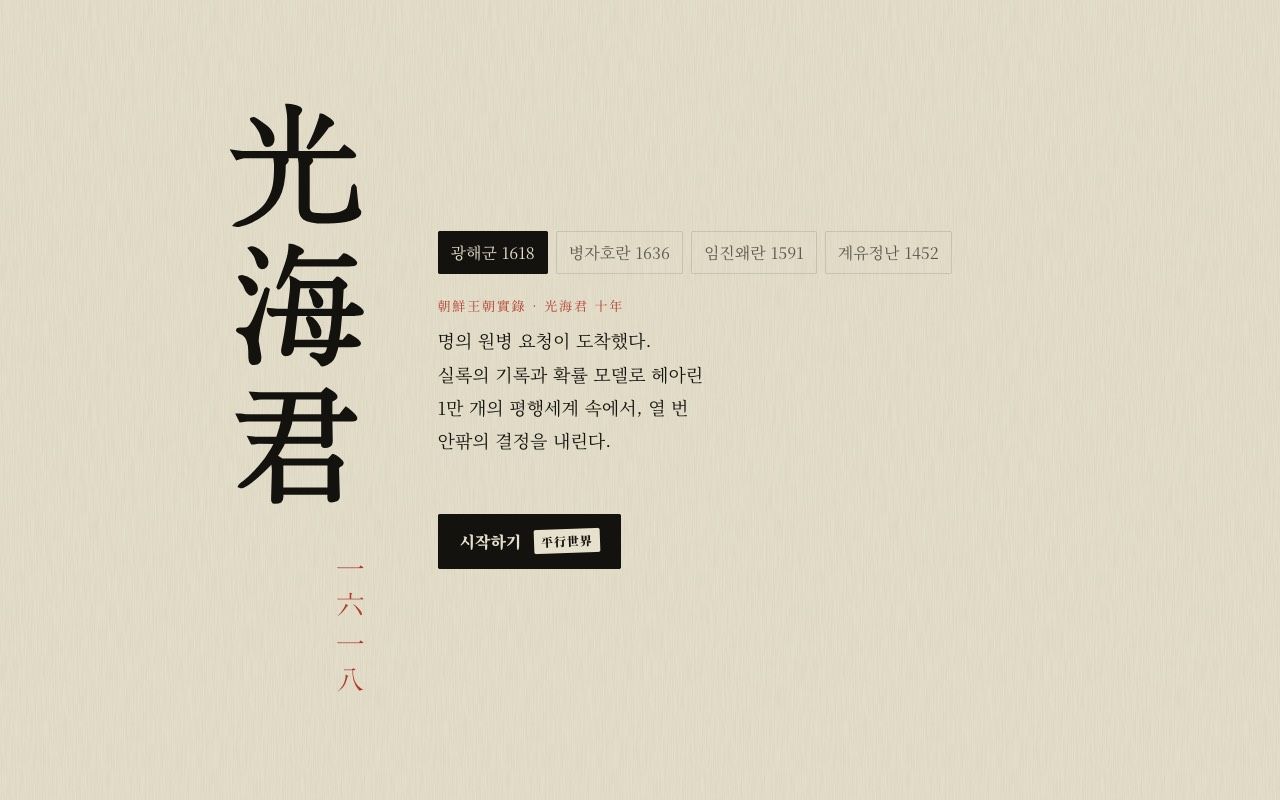
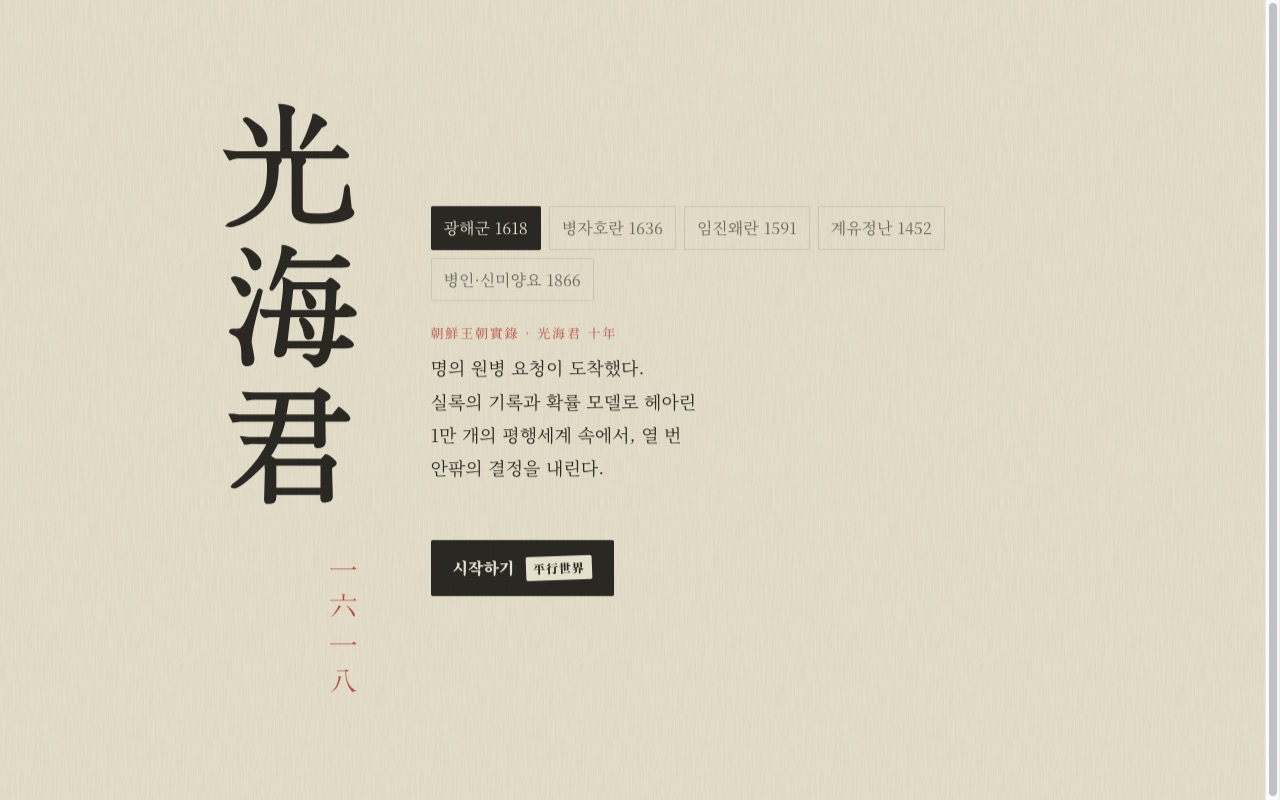
couplegame: add live link; historical-if: recapture cover with 5 episodes

diff --git a/work/index.html b/work/index.html
@@ -1,1 +1,1 @@
-<!doctype html><html lang="ko"><head><meta charset="utf-8"><meta name="viewport" content="width=device-width,initial-scale=1"><title>자세히 보는 포트폴리오 | 문대한 · 서비스 기획 PM</title><meta name="description" content="문대한의 대표 사례와 추가 경험을 프로젝트마다 한 페이지씩 정리한 상세 포트폴리오."><meta name="robots" content="index,follow"><meta name="theme-color" content="#ffffff"><link rel="canonical" href="https://moondh99.github.io/work/"><meta property="og:type" content="website"><meta property="og:locale" content="ko_KR"><meta property="og:title" content="자세히 보는 포트폴리오 | 문대한"><meta property="og:description" content="문대한의 대표 사례와 추가 경험을 프로젝트마다 한 페이지씩 정리한 상세 포트폴리오."><meta property="og:url" content="https://moondh99.github.io/work/"><meta property="og:image" content="https://moondh99.github.io/assets/og-pm.png"><link rel="stylesheet" href="/style.css"><link rel="stylesheet" href="/views.css"><link rel="preload" href="/assets/PretendardVariable.woff2" as="font" type="font/woff2" crossorigin><link rel="icon" href="/assets/favicon.svg"><link rel="stylesheet" href="/storytelling.css"></head><body class="detail-view"><a class="skip" href="#main">본문으로 건너뛰기</a><header class="bar"><div class="wrap nav"><a href="/" class="brand">문대한</a><nav aria-label="포트폴리오 보기" class="navlinks"><a href="/">한눈에 보기</a><a href="/work/" aria-current="page">자세히 보기</a><a href="/resume/" class="resume-nav">이력서</a></nav></div></header><main id="main" tabindex="-1" class="wrap detail-index"><div class="page-heading"><p class="eyebrow">DETAILED PORTFOLIO</p><h1>프로젝트를 자세히 읽기</h1><p class="lede">프로젝트마다 무엇을 만들고 어떤 선택을 했는지, 결과는 어땠는지 정리.</p><div class="page-actions"><a href="/">← 한눈에 보기</a><a href="/portfolio.pdf">포트폴리오 PDF ↗</a></div></div><section class="index-group" id="featured" aria-labelledby="featured-title"><h2 id="featured-title">대표 사례</h2><p class="group-description">데이터와 화면 사이에서 무엇을 보여 줄지 결정한 세 가지 사례.</p><ul class="detail-list"><li class="detail-row"><span class="small project-year">2025</span><div><h3><a href="/projects/ontong/">온통청년 문화·여가 접근성</a></h3><p>3인 팀장. 시설 범위와 우선 검토 지역 조정, 공동 분석 보고서·제언 초안. 2025 연구 랩업 대상</p></div><div class="row-action"><span class="status">팀 분석</span><a href="/projects/ontong/">자세히 보기 →</a></div></li><li class="detail-row"><span class="small project-year">2025–2026</span><div><h3><a href="/projects/nca/">NCA 공약·공식자료 대조</a></h3><p>2025 데이터 엔지니어. 2026 AI 변경 지시, 공개 범위 조정, 공약·기사 원문 표본 검토</p></div><div class="row-action"><span class="status">후속 진행</span><a href="/projects/nca/">자세히 보기 →</a></div></li><li class="detail-row"><span class="small project-year">2026</span><div><h3><a href="/projects/dearlog/">Dear Log</a></h3><p>학기 백엔드·AI 담당. 데모 화면 문제를 위치와 수정 방향이 담긴 요청 10건으로 정리해 팀에 전달</p></div><div class="row-action"><span class="status">화면 검토·이슈 정의</span><a href="/projects/dearlog/">자세히 보기 →</a></div></li></ul></section><section class="index-group" id="personal" aria-labelledby="personal-title"><h2 id="personal-title">개인 프로젝트</h2><p class="group-description">기획과 범위 판단은 본인, 구현은 AI 협업으로 만든 개인 프로젝트.</p><ul class="detail-list"><li class="detail-row"><span class="small project-year">2026</span><div><h3><a href="/projects/navernews/">약속레이더 공약 보도 추적</a></h3><p>공약 1,200개의 보도 추적. AI 라벨 출처와 오차범위를 화면에 공개</p></div><div class="row-action"><span class="status">배포 예정</span><a href="/projects/navernews/">자세히 보기 →</a></div></li><li class="detail-row"><span class="small project-year">2026</span><div><h3><a href="/projects/couplegame/">둘이잠깐 커플 게임 웹앱</a></h3><p>휴대폰 한 대로 하는 커플 게임 43종. 공통 예외 정책 설계와 적용</p></div><div class="row-action"><span class="status">배포 예정</span><a href="/projects/couplegame/">자세히 보기 →</a></div></li><li class="detail-row"><span class="small project-year">2026</span><div><h3><a href="/projects/historical-if/">실록 평행세계 Historical IF</a></h3><p>실록과 승정원일기 근거를 가정마다 연결한 역사 IF 게임</p></div><div class="row-action"><span class="status">진행 중</span><a href="/projects/historical-if/">자세히 보기 →</a></div></li><li class="detail-row"><span class="small project-year">2026</span><div><h3><a href="/projects/tossfinance/">보유 미국 주식 리서치 메일</a></h3><p>계산은 코드로, AI 해석은 우선순위 상위 3종목에만 쓰는 매일 메일 리포트</p></div><div class="row-action"><span class="status">개인 운영</span><a href="/projects/tossfinance/">자세히 보기 →</a></div></li></ul></section><section class="index-group" id="experience" aria-labelledby="experience-title"><h2 id="experience-title">추가 경험</h2><p class="group-description">서비스 기획·설계 중심의 경험.</p><ul class="detail-list"><li class="detail-row"><span class="small project-year">2026</span><div><h3><a href="/projects/yangju/">양주 광역버스 좌석 정보</a></h3><p>좌석·결측·시각 응답 기준 작성. 정류장 4곳의 노선·방향 매핑 6건을 대조한 로컬 구현</p></div><div class="row-action"><span class="status">로컬 구현</span><a href="/projects/yangju/">자세히 보기 →</a></div></li><li class="detail-row"><span class="small project-year">2025</span><div><h3><a href="/projects/finsight/">Finsight</a></h3><p>5인 PM·팀장. 수집·파싱 역할 조정, AI 요구사항 지시·실행 검토, 저장 파일 표본 대조</p></div><div class="row-action"><span class="status">팀 프로젝트</span><a href="/projects/finsight/">자세히 보기 →</a></div></li><li class="detail-row"><span class="small project-year">2025</span><div><h3><a href="/projects/registration/">수강신청 시스템 개편</a></h3><p>수강 계획과 마일리지 우선권을 요구사항·DFD·ERD·HTML 프로토타입으로 정리</p></div><div class="row-action"><span class="status">설계 프로젝트</span><a href="/projects/registration/">자세히 보기 →</a></div></li><li class="detail-row"><span class="small project-year">2026</span><div><h3><a href="/projects/bmw/">운전 졸업식 BMW YIDP</a></h3><p>2인 팀 팀장. 면허 반납 뒤의 이동계획표와 졸업식, 예약·동행 절차 설계</p></div><div class="row-action"><span class="status">기획안</span><a href="/projects/bmw/">자세히 보기 →</a></div></li><li class="detail-row"><span class="small project-year">2026</span><div><h3><a href="/projects/walk/">첫걸음 동네산책</a></h3><p>3인 팀 대표. 이주민이 동네 정보를 나누는 핵심 화면 4개와 예시 데이터 MVP</p></div><div class="row-action"><span class="status">신청·MVP</span><a href="/projects/walk/">자세히 보기 →</a></div></li><li class="detail-row"><span class="small project-year">2026.04</span><div><h3><a href="/projects/campusguard/">CampusGuard KIT 바이브코딩</a></h3><p>부트캠프 출결과 상담·행정 문서를 함께 다루는 프로토타입. Kiro 코드 생성 활용</p></div><div class="row-action"><span class="status">프로토타입</span><a href="/projects/campusguard/">자세히 보기 →</a></div></li><li class="detail-row"><span class="small project-year">2026.05</span><div><h3><a href="/projects/kmu/">국민대 특화 행정 서비스 AI</a></h3><p>공식 학사 자료 확인 후 문의문과 체크리스트를 작성하는 React·FastAPI 프로토타입</p></div><div class="row-action"><span class="status">구현·설계</span><a href="/projects/kmu/">자세히 보기 →</a></div></li><li class="detail-row"><span class="small project-year">2026</span><div><h3><a href="/projects/kbi/">금융문맹 탈출기 RPG</a></h3><p>개인 5장 기획·편집·AI 제작. 카드 순서·이야기 흐름과 디자인 수정, 공식 표지·카드뉴스 인기상</p></div><div class="row-action"><span class="status">콘텐츠 제작</span><a href="/projects/kbi/">자세히 보기 →</a></div></li></ul></section></main><footer class="wrap view-footer"><p>문대한 · 서비스 기획 / PM</p><p><a href="mailto:mdh0204@naver.com">mdh0204@naver.com</a> · <a href="/resume.pdf">이력서 PDF (2쪽)</a> · <a href="/resume.docx">편집용 DOCX (2쪽)</a></p><p class="small">최종 수정 2026.10.15</p></footer></body></html>
+<!doctype html><html lang="ko"><head><meta charset="utf-8"><meta name="viewport" content="width=device-width,initial-scale=1"><title>자세히 보는 포트폴리오 | 문대한 · 서비스 기획 PM</title><meta name="description" content="문대한의 대표 사례와 추가 경험을 프로젝트마다 한 페이지씩 정리한 상세 포트폴리오."><meta name="robots" content="index,follow"><meta name="theme-color" content="#ffffff"><link rel="canonical" href="https://moondh99.github.io/work/"><meta property="og:type" content="website"><meta property="og:locale" content="ko_KR"><meta property="og:title" content="자세히 보는 포트폴리오 | 문대한"><meta property="og:description" content="문대한의 대표 사례와 추가 경험을 프로젝트마다 한 페이지씩 정리한 상세 포트폴리오."><meta property="og:url" content="https://moondh99.github.io/work/"><meta property="og:image" content="https://moondh99.github.io/assets/og-pm.png"><link rel="stylesheet" href="/style.css"><link rel="stylesheet" href="/views.css"><link rel="preload" href="/assets/PretendardVariable.woff2" as="font" type="font/woff2" crossorigin><link rel="icon" href="/assets/favicon.svg"><link rel="stylesheet" href="/storytelling.css"></head><body class="detail-view"><a class="skip" href="#main">본문으로 건너뛰기</a><header class="bar"><div class="wrap nav"><a href="/" class="brand">문대한</a><nav aria-label="포트폴리오 보기" class="navlinks"><a href="/">한눈에 보기</a><a href="/work/" aria-current="page">자세히 보기</a><a href="/resume/" class="resume-nav">이력서</a></nav></div></header><main id="main" tabindex="-1" class="wrap detail-index"><div class="page-heading"><p class="eyebrow">DETAILED PORTFOLIO</p><h1>프로젝트를 자세히 읽기</h1><p class="lede">프로젝트마다 무엇을 만들고 어떤 선택을 했는지, 결과는 어땠는지 정리.</p><div class="page-actions"><a href="/">← 한눈에 보기</a><a href="/portfolio.pdf">포트폴리오 PDF ↗</a></div></div><section class="index-group" id="featured" aria-labelledby="featured-title"><h2 id="featured-title">대표 사례</h2><p class="group-description">데이터와 화면 사이에서 무엇을 보여 줄지 결정한 세 가지 사례.</p><ul class="detail-list"><li class="detail-row"><span class="small project-year">2025</span><div><h3><a href="/projects/ontong/">온통청년 문화·여가 접근성</a></h3><p>3인 팀장. 시설 범위와 우선 검토 지역 조정, 공동 분석 보고서·제언 초안. 2025 연구 랩업 대상</p></div><div class="row-action"><span class="status">팀 분석</span><a href="/projects/ontong/">자세히 보기 →</a></div></li><li class="detail-row"><span class="small project-year">2025–2026</span><div><h3><a href="/projects/nca/">NCA 공약·공식자료 대조</a></h3><p>2025 데이터 엔지니어. 2026 AI 변경 지시, 공개 범위 조정, 공약·기사 원문 표본 검토</p></div><div class="row-action"><span class="status">후속 진행</span><a href="/projects/nca/">자세히 보기 →</a></div></li><li class="detail-row"><span class="small project-year">2026</span><div><h3><a href="/projects/dearlog/">Dear Log</a></h3><p>학기 백엔드·AI 담당. 데모 화면 문제를 위치와 수정 방향이 담긴 요청 10건으로 정리해 팀에 전달</p></div><div class="row-action"><span class="status">화면 검토·이슈 정의</span><a href="/projects/dearlog/">자세히 보기 →</a></div></li></ul></section><section class="index-group" id="personal" aria-labelledby="personal-title"><h2 id="personal-title">개인 프로젝트</h2><p class="group-description">기획과 범위 판단은 본인, 구현은 AI 협업으로 만든 개인 프로젝트.</p><ul class="detail-list"><li class="detail-row"><span class="small project-year">2026</span><div><h3><a href="/projects/navernews/">약속레이더 공약 보도 추적</a></h3><p>공약 1,200개의 보도 추적. AI 라벨 출처와 오차범위를 화면에 공개</p></div><div class="row-action"><span class="status">배포 예정</span><a href="/projects/navernews/">자세히 보기 →</a></div></li><li class="detail-row"><span class="small project-year">2026</span><div><h3><a href="/projects/couplegame/">둘이잠깐 커플 게임 웹앱</a></h3><p>휴대폰 한 대로 하는 커플 게임 43종. 공통 예외 정책 설계와 적용</p></div><div class="row-action"><span class="status">공개 운영</span><a href="/projects/couplegame/">자세히 보기 →</a></div></li><li class="detail-row"><span class="small project-year">2026</span><div><h3><a href="/projects/historical-if/">실록 평행세계 Historical IF</a></h3><p>실록과 승정원일기 근거를 가정마다 연결한 역사 IF 게임</p></div><div class="row-action"><span class="status">진행 중</span><a href="/projects/historical-if/">자세히 보기 →</a></div></li><li class="detail-row"><span class="small project-year">2026</span><div><h3><a href="/projects/tossfinance/">보유 미국 주식 리서치 메일</a></h3><p>계산은 코드로, AI 해석은 우선순위 상위 3종목에만 쓰는 매일 메일 리포트</p></div><div class="row-action"><span class="status">개인 운영</span><a href="/projects/tossfinance/">자세히 보기 →</a></div></li></ul></section><section class="index-group" id="experience" aria-labelledby="experience-title"><h2 id="experience-title">추가 경험</h2><p class="group-description">서비스 기획·설계 중심의 경험.</p><ul class="detail-list"><li class="detail-row"><span class="small project-year">2026</span><div><h3><a href="/projects/yangju/">양주 광역버스 좌석 정보</a></h3><p>좌석·결측·시각 응답 기준 작성. 정류장 4곳의 노선·방향 매핑 6건을 대조한 로컬 구현</p></div><div class="row-action"><span class="status">로컬 구현</span><a href="/projects/yangju/">자세히 보기 →</a></div></li><li class="detail-row"><span class="small project-year">2025</span><div><h3><a href="/projects/finsight/">Finsight</a></h3><p>5인 PM·팀장. 수집·파싱 역할 조정, AI 요구사항 지시·실행 검토, 저장 파일 표본 대조</p></div><div class="row-action"><span class="status">팀 프로젝트</span><a href="/projects/finsight/">자세히 보기 →</a></div></li><li class="detail-row"><span class="small project-year">2025</span><div><h3><a href="/projects/registration/">수강신청 시스템 개편</a></h3><p>수강 계획과 마일리지 우선권을 요구사항·DFD·ERD·HTML 프로토타입으로 정리</p></div><div class="row-action"><span class="status">설계 프로젝트</span><a href="/projects/registration/">자세히 보기 →</a></div></li><li class="detail-row"><span class="small project-year">2026</span><div><h3><a href="/projects/bmw/">운전 졸업식 BMW YIDP</a></h3><p>2인 팀 팀장. 면허 반납 뒤의 이동계획표와 졸업식, 예약·동행 절차 설계</p></div><div class="row-action"><span class="status">기획안</span><a href="/projects/bmw/">자세히 보기 →</a></div></li><li class="detail-row"><span class="small project-year">2026</span><div><h3><a href="/projects/walk/">첫걸음 동네산책</a></h3><p>3인 팀 대표. 이주민이 동네 정보를 나누는 핵심 화면 4개와 예시 데이터 MVP</p></div><div class="row-action"><span class="status">신청·MVP</span><a href="/projects/walk/">자세히 보기 →</a></div></li><li class="detail-row"><span class="small project-year">2026.04</span><div><h3><a href="/projects/campusguard/">CampusGuard KIT 바이브코딩</a></h3><p>부트캠프 출결과 상담·행정 문서를 함께 다루는 프로토타입. Kiro 코드 생성 활용</p></div><div class="row-action"><span class="status">프로토타입</span><a href="/projects/campusguard/">자세히 보기 →</a></div></li><li class="detail-row"><span class="small project-year">2026.05</span><div><h3><a href="/projects/kmu/">국민대 특화 행정 서비스 AI</a></h3><p>공식 학사 자료 확인 후 문의문과 체크리스트를 작성하는 React·FastAPI 프로토타입</p></div><div class="row-action"><span class="status">구현·설계</span><a href="/projects/kmu/">자세히 보기 →</a></div></li><li class="detail-row"><span class="small project-year">2026</span><div><h3><a href="/projects/kbi/">금융문맹 탈출기 RPG</a></h3><p>개인 5장 기획·편집·AI 제작. 카드 순서·이야기 흐름과 디자인 수정, 공식 표지·카드뉴스 인기상</p></div><div class="row-action"><span class="status">콘텐츠 제작</span><a href="/projects/kbi/">자세히 보기 →</a></div></li></ul></section></main><footer class="wrap view-footer"><p>문대한 · 서비스 기획 / PM</p><p><a href="mailto:mdh0204@naver.com">mdh0204@naver.com</a> · <a href="/resume.pdf">이력서 PDF (2쪽)</a> · <a href="/resume.docx">편집용 DOCX (2쪽)</a></p><p class="small">최종 수정 2026.10.15</p></footer></body></html>

diff --git a/projects/couplegame/index.html b/projects/couplegame/index.html
@@ -5,5 +5,5 @@
 <blockquote class="story-quote"><p>“게임마다 따로 고치면,<br>게임 수만큼 예외가 생긴다.”</p><footer>공통 정책을 먼저 정한 이유</footer></blockquote>
 <section class="story-sec" aria-labelledby="decision"><div class="story-col story-sec" style="padding-top:0"><span class="kicker">02 — 무엇을 결정했나</span><h2 id="decision" class="serif">공통 정책 먼저, 게임은 그다음</h2></div><div class="story-wide"><ul class="options"><li class="rejected"><span class="tag">A · 기각</span><b>게임마다 예외를 따로 처리</b><span>게임이 늘 때마다 중단, 재개, 기록 오류가 같이 늘어남.</span></li><li class="chosen"><span class="tag">B · 채택</span><b>공통 정책을 정한 뒤 게임별 차이만 정의</b><span>일시정지, 비밀 가림, 입력 순간 판정, 기록 1회 저장, 권한 거절 시 대체 입력, 업데이트 보류를 공통 규칙으로 두고 게임마다 재개 방식만 따로 정함.</span></li></ul></div><div class="story-col story-sec" style="padding-top:8px"><p>2026년 9월 12일 31종에 공통 정책을 먼저 적용. 탭 전환, 화면 회전, 화면 꺼짐은 모두 같은 가림 화면으로 들어가고 게임 시간도 멈춤. 다시 시작은 지금 차례인 사람이 확인해야 진행. 판정은 화면이 그려진 시각이 아니라 입력한 순간의 시각 기준. 게임 도중 나가면 기록하지 않고, 끝나면 한 번만 저장.</p><p>게임 수가 39종이 되자 무엇을 할지 고르기가 새 병목. 종류별 필터와 최근 함께한 게임 바로가기를 추가. 9월 28일에는 새 게임보다 다시 열 이유를 먼저 만듦. 날짜별로 묶은 기록, 나와 너의 대결 전적, 상황별 추천을 넣고 비어 있던 복불복 장르에만 사다리 타기를 추가. 무음 모드에서는 소리나 큰 동작이 필요한 4종을 추천에서 제외.</p><p>사다리 타기는 규칙부터 조정. 각자 출발점 하나씩 고르면 둘 다 걸리거나 아무도 안 걸릴 수 있음. 4줄 사다리에서 출발점을 두 개씩 번갈아 고르게 해 당첨자가 반드시 한 명이 되도록 함.</p><p>하지 않기로 한 것도 정리. 계정, 서버 동기화, 외부 분석 도구는 범위에서 제외. 기록이 기기 밖으로 나가지 않고 오프라인에서도 돌아가게 하기 위함. 실기기 없이 정확도를 보장할 수 없는 센서 게임은 출시를 미루지 않고 실험 표시와 대체 입력을 함께 제공.</p></div></section>
 <section class="story-sec" aria-labelledby="output"><div class="story-col story-sec" style="padding-top:0"><span class="kicker">03 — 결과물</span><h2 id="output" class="serif">게임 43종과 룰렛</h2><p>협동 20종, 대결 14종, 대화 5종, 복불복 4종에 미션 룰렛 도구 1개. 화면 한 장 안에서 상태만 바꾸는 구조라 게임 중 뒤로 가기로 화면이 꼬이지 않음.</p></div><div class="story-wide"><div class="artifacts phones"><figure><img src="/assets/cases/couplegame/app-02-library.jpg" width="780" height="1688" loading="lazy" alt="게임 모아보기 화면. 최근에 함께한 게임 영역과 전체, 협동, 대결, 대화, 복불복, 도구 필터 버튼, 게임 43종과 룰렛 문구, 사다리 타기 카드가 있다."><figcaption><b>게임 모아보기</b>종류별 필터 6개와 최근 함께한 게임. 2026.10.15 캡처, 배포된 버전 24 화면</figcaption></figure><figure><img src="/assets/cases/couplegame/app-03-ladder-intro.jpg" width="780" height="1688" loading="lazy" alt="사다리 타기 시작 화면. 오늘의 벌칙으로 커피 사기, 설거지 하기, 어깨 안마 3분, 다음 메뉴 양보, 사진 찍어주기 중 하나를 고르고 직접 쓰기 입력칸과 나부터 고르기 버튼이 있다."><figcaption><b>사다리 타기 시작</b>벌칙을 고르거나 16자까지 직접 입력. 2026.10.15 캡처, 배포된 버전 24 화면</figcaption></figure><figure><img src="/assets/cases/couplegame/app-04-ladder-reveal.jpg" width="780" height="1688" loading="lazy" alt="사다리 타기 결과 공개 화면. 위쪽에 나, 나, 너, 너 출발점이 있고 경로를 따라 내려가 세 번째 칸 ‘당첨 라면 끓이기’에 닿는다."><figcaption><b>사다리 결과 공개</b>출발점 두 개씩, 당첨자는 한 명. 2026.09.28 검증 캡처, 본인 개인 프로젝트(AI 협업)</figcaption></figure></div></div><div class="story-wide"><dl class="stats"><div><dt>게임 종류<br>룰렛 도구 별도</dt><dd>43</dd></div><div><dt>자동 테스트 통과<br>AI 작성, 2026.09.28 기준</dt><dd>165</dd></div><div><dt>배포 버전 24 권한 거절 점검<br>기울기 센서 점검은 21/21</dt><dd>25/25</dd></div></dl></div><div class="story-col story-sec" style="padding-top:8px"><p>9월 12일 안정화 때 게임 30종의 입력부터 결과, 기록 1개 저장까지를 브라우저에서 확인. 9월 28일에는 네트워크를 끊고 새로고침한 뒤 홈, 43종 목록, 사다리 한 판, 전적 화면을 확인. 320×568 화면과 글자 200%에서 가로 넘침 없음. 사다리 2만 판 시뮬레이션에서 나와 너의 당첨 비율 50.0%.</p><p>계획서, 검증 결과 파일, 배포 기록(버전, 커밋, 빌드 번호)을 날짜별 문서로 남김. 구현과 테스트 코드, 배포 실행은 AI 협업이며 정책과 범위, 완료 기준은 본인이 정함. 사용자 지표는 포함하지 않음.</p></div></section>
-<section class="story-col story-sec" aria-labelledby="left"><span class="kicker">04 — 무엇이 남았나</span><h2 id="left" class="serif">실제 휴대폰 확인</h2><p>모든 점검은 컴퓨터 브라우저와 iOS 시뮬레이터에서 진행. 동시 터치, 센서, 카메라와 마이크 품질, 한글 키보드 입력은 실제 iPhone과 Android에서 아직 확인하지 않음. 해당 항목은 실기기 체크리스트로 따로 관리.</p><p>서버와 외부 분석 도구를 두지 않는다는 원칙 때문에 추천과 기록 화면의 효과를 수치로 볼 수 없음. 2026년 10월 9일 버전 24까지 배포 기록이 있으며 정식 공개 배포 예정.</p></section>
+<section class="story-col story-sec" aria-labelledby="left"><span class="kicker">04 — 무엇이 남았나</span><h2 id="left" class="serif">실제 휴대폰 확인</h2><p>모든 점검은 컴퓨터 브라우저와 iOS 시뮬레이터에서 진행. 동시 터치, 센서, 카메라와 마이크 품질, 한글 키보드 입력은 실제 iPhone과 Android에서 아직 확인하지 않음. 해당 항목은 실기기 체크리스트로 따로 관리.</p><p>서버와 외부 분석 도구를 두지 않는다는 원칙 때문에 추천과 기록 화면의 효과를 수치로 볼 수 없음. 2026년 10월 9일 버전 24 배포. <a class="live-link" href="https://dool-jamkkan.mdh0204.chatgpt.site">둘이잠깐 열어 보기 ↗</a></p></section>
 </article><nav class="story-next" aria-label="사례 이동"><a href="/work/">← 전체 경험</a></nav></main><footer class="wrap view-footer"><p>문대한 · 서비스 기획 / PM</p><p><a href="mailto:mdh0204@naver.com">mdh0204@naver.com</a> · <a href="/resume/">이력서 보기</a> · <a href="/resume.pdf">이력서 PDF</a> · <a href="/resume.docx">편집용 DOCX</a> · <a href="/portfolio.pdf">포트폴리오 PDF</a></p><p class="small">최종 수정 2026.10.15</p></footer></body></html>

diff --git a/projects/historical-if/index.html b/projects/historical-if/index.html
@@ -6,6 +6,6 @@
 <section class="story-sec" aria-labelledby="decision"><div class="story-col story-sec" style="padding-top:0"><span class="kicker">02 — 무엇을 결정했나</span><h2 id="decision" class="serif">사료 출처와 근거 연결 방식</h2></div><div class="story-wide"><ul class="options"><li class="chosen"><span class="tag">실록 · 채택</span><b>공공데이터포털 실록 원문 XML</b><span>국사편찬위원회가 공공누리 제1유형으로 공개한 파일을 받아 적재. 본문은 한문 원문. 음력 날짜를 양력으로 바꾸고 실록의 일진과 대조해 일치율 99.3% 확인.</span></li><li class="chosen"><span class="tag">승정원일기 · 채택</span><b>한국고전종합DB 국역본</b><span>고종실록이 없는 병인·신미양요는 본인 결정으로 승정원일기 고종대로 대체. 목차를 따라 1초 간격으로 받아 캐시하고 1866~1871년 국역 기사 29,781건 적재.</span></li></ul></div><div class="story-col story-sec" style="padding-top:8px"><p>근거 연결 방식도 정함. 기사 전부를 LLM 추출에 넣지 않고 결정과 관련이 깊은 기사부터 점수로 골라 주장(claim)을 뽑음. 시뮬레이션 가정마다 이 주장을 근거 링크로 붙임. 예를 들어 병자호란은 가정 11개에 근거 49개, 계유정난은 가정 10개에 근거 47개, 병인·신미양요는 가정 10개에 근거 52개 연결.</p><p>에피소드 구조는 선택 10번으로 고정. 점수 7개는 모두 0이 나쁜 방향이고 하나라도 0이 되면 그 자리에서 종료. 결정마다 실제 역사의 선택과 결과를 함께 보여 주고, 끝나면 실록 경로와 내 세계를 점수별로 비교. 실록과 다른 길로 갈라진 뒤의 사건에는 '가상 시나리오' 배지를 붙임.</p><p>서술 문단은 LLM이 쓰되 주어진 사실과 수치, 허용된 사건만 쓰게 하고 어기면 거부하도록 구현. 실제 역사 문구는 사료 원문과 대조 검토를 거쳐 과장되거나 근거 없는 문장 18개를 완화.</p></div></section>
 <figure class="story-wide story-figure"><img src="/assets/cases/historical-if/result.jpg" width="1154" height="1280" alt="첫 결정에서 '제한적으로 지원한다'를 고른 뒤의 결과 화면. 1만 개 평행세계 결과를 설명하는 서술 문단, 실제 역사와 같은 선택을 했다는 안내와 실제 경과, 명과의 관계와 후금과의 관계 등 점수별로 개선과 악화 세계 비율을 점으로 보여 주는 그래프가 있다." loading="lazy"><figcaption>결정 결과 화면, 2026.10.15 로컬 실행 화면. 서술 문단은 LLM 생성, 아래 '실제 역사'는 실록 기준 문구</figcaption></figure>
 <section class="story-sec" aria-labelledby="result"><div class="story-col story-sec" style="padding-top:0"><span class="kicker">03 — 결과물</span><h2 id="result" class="serif">에피소드 5개를 로컬에서 플레이</h2></div><div class="story-wide"><dl class="stats"><div><dt>플레이 가능한 에피소드<br>광해군, 병자호란, 임진왜란, 계유정난, 병인·신미양요</dt><dd>5</dd></div><div><dt>승정원일기 고종 1866~1871<br>국역 기사 적재</dt><dd>29,781</dd></div><div><dt>결정과 분기 장면 이미지<br>AI 생성(Codex)</dt><dd>118</dd></div></dl></div><div class="story-col"><p>실록은 광해군 1618~1623년 5,913건, 인조 1627~1637년 6,815건 등을 적재. 병인·신미양요는 기사 59건에서 주장 314개를 추출. 결정 화면, 결과 화면, 실제 역사 비교, 점수 막대, 직접 입력한 명령의 선택지 해석까지 동작. FastAPI 백엔드와 React 웹, PostgreSQL 구성.</p><p>개인 프로젝트이며 코드와 테스트는 Claude와 협업해 작성. 사용자 지표는 포함하지 않음.</p></div></section>
-<figure class="story-wide story-figure"><img src="/assets/cases/historical-if/cover.jpg" width="1280" height="800" alt="표지 화면. 왼쪽에 세로로 光海君과 一六一八, 오른쪽에 광해군 1618, 병자호란 1636, 임진왜란 1591, 계유정난 1452 에피소드 버튼과 시작하기 버튼이 있다." loading="lazy"><figcaption>표지 화면, 2026.10.15 로컬 실행 화면. 촬영 시점에 떠 있던 API 서버가 최신 코드 이전 상태라 에피소드 4개만 표시</figcaption></figure>
+<figure class="story-wide story-figure"><img src="/assets/cases/historical-if/cover.jpg" width="1280" height="800" alt="표지 화면. 왼쪽에 세로로 光海君과 一六一八, 오른쪽에 광해군 1618, 병자호란 1636, 임진왜란 1591, 계유정난 1452, 병인·신미양요 1866 에피소드 버튼 5개와 시작하기 버튼이 있다." loading="lazy"><figcaption>표지 화면, 에피소드 5개. 2026.10.15 로컬 실행 화면</figcaption></figure>
 <section class="story-col story-sec" aria-labelledby="left"><span class="kicker">04 — 무엇이 남았나</span><h2 id="left" class="serif">진행 중인 항목</h2><p>LLM이 추출한 주장은 아직 사람이 검토하지 않음. 6~8명 대상 대면 플레이 테스트는 질문지와 절차만 마련했고 미실시. 병인·신미양요 에피소드는 API 단위 확인까지만 기록되어 있고 브라우저 확인 기록은 없음.</p><p>현재는 로컬 실행만 가능. 공개 배포 예정.</p></section>
 </article><nav class="story-next" aria-label="사례 이동"><a href="/work/">← 전체 경험</a></nav></main><footer class="wrap view-footer"><p>문대한 · 서비스 기획 / PM</p><p><a href="mailto:mdh0204@naver.com">mdh0204@naver.com</a> · <a href="/resume/">이력서 보기</a> · <a href="/resume.pdf">이력서 PDF</a> · <a href="/resume.docx">편집용 DOCX</a> · <a href="/portfolio.pdf">포트폴리오 PDF</a></p><p class="small">최종 수정 2026.10.15</p></footer></body></html>
